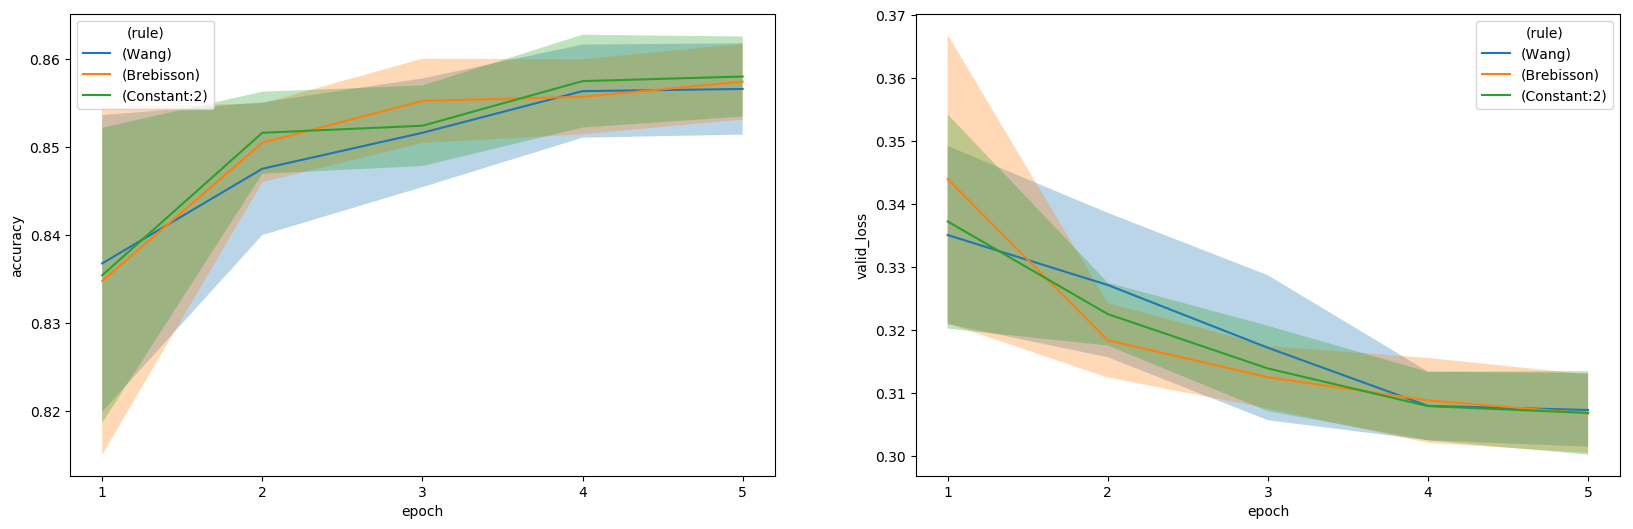
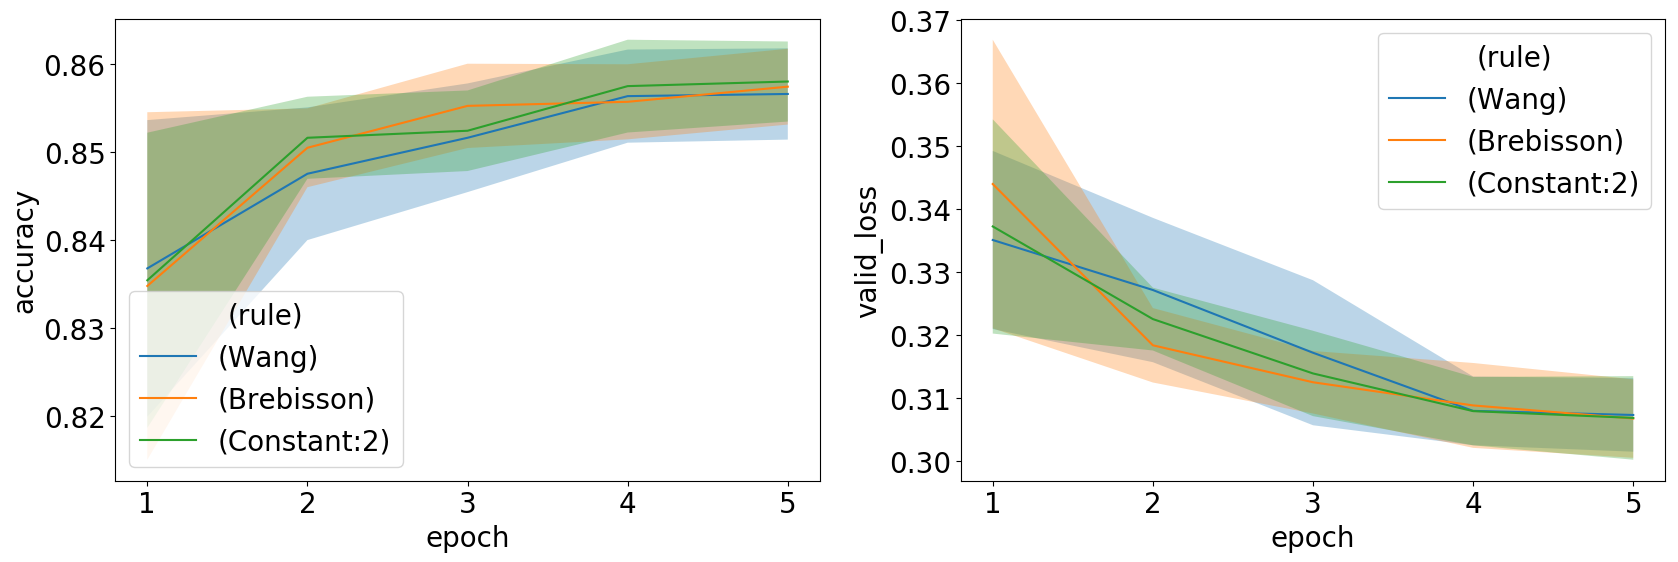
enlarge text

diff --git a/code/improve_plot_text.py b/code/improve_plot_text.py
@@ -4,13 +4,13 @@ from fastai_ext.plot_utils import plot_best, plot_over_epochs, display_embs
 from matplotlib import pyplot as plt
 
 path = Path('../data/adult')
-experiment_name, exp_path = create_experiment('residual_depth', path)
+experiment_name, exp_path = create_experiment('width_depth', path)
 
 config_df, recorder_df, param_names, metric_names = load_results(exp_path)
 summary_df = summarise_results(recorder_df, param_names, metric_names)
 
-# plot_best(summary_df, param_names, metric_names)
-# plt.savefig(exp_path/'best2.png', bbox_inches='tight')
+plot_best(summary_df, param_names, metric_names)
+plt.savefig(exp_path/'best.png', bbox_inches='tight')
 
-plot_over_epochs(summary_df, param_names, metric_names, config_df)
-plt.savefig(exp_path/'all_epochs2.png', bbox_inches='tight')
+# plot_over_epochs(summary_df, param_names, metric_names, config_df)
+# plt.savefig(exp_path/'all_epochs.png', bbox_inches='tight')
